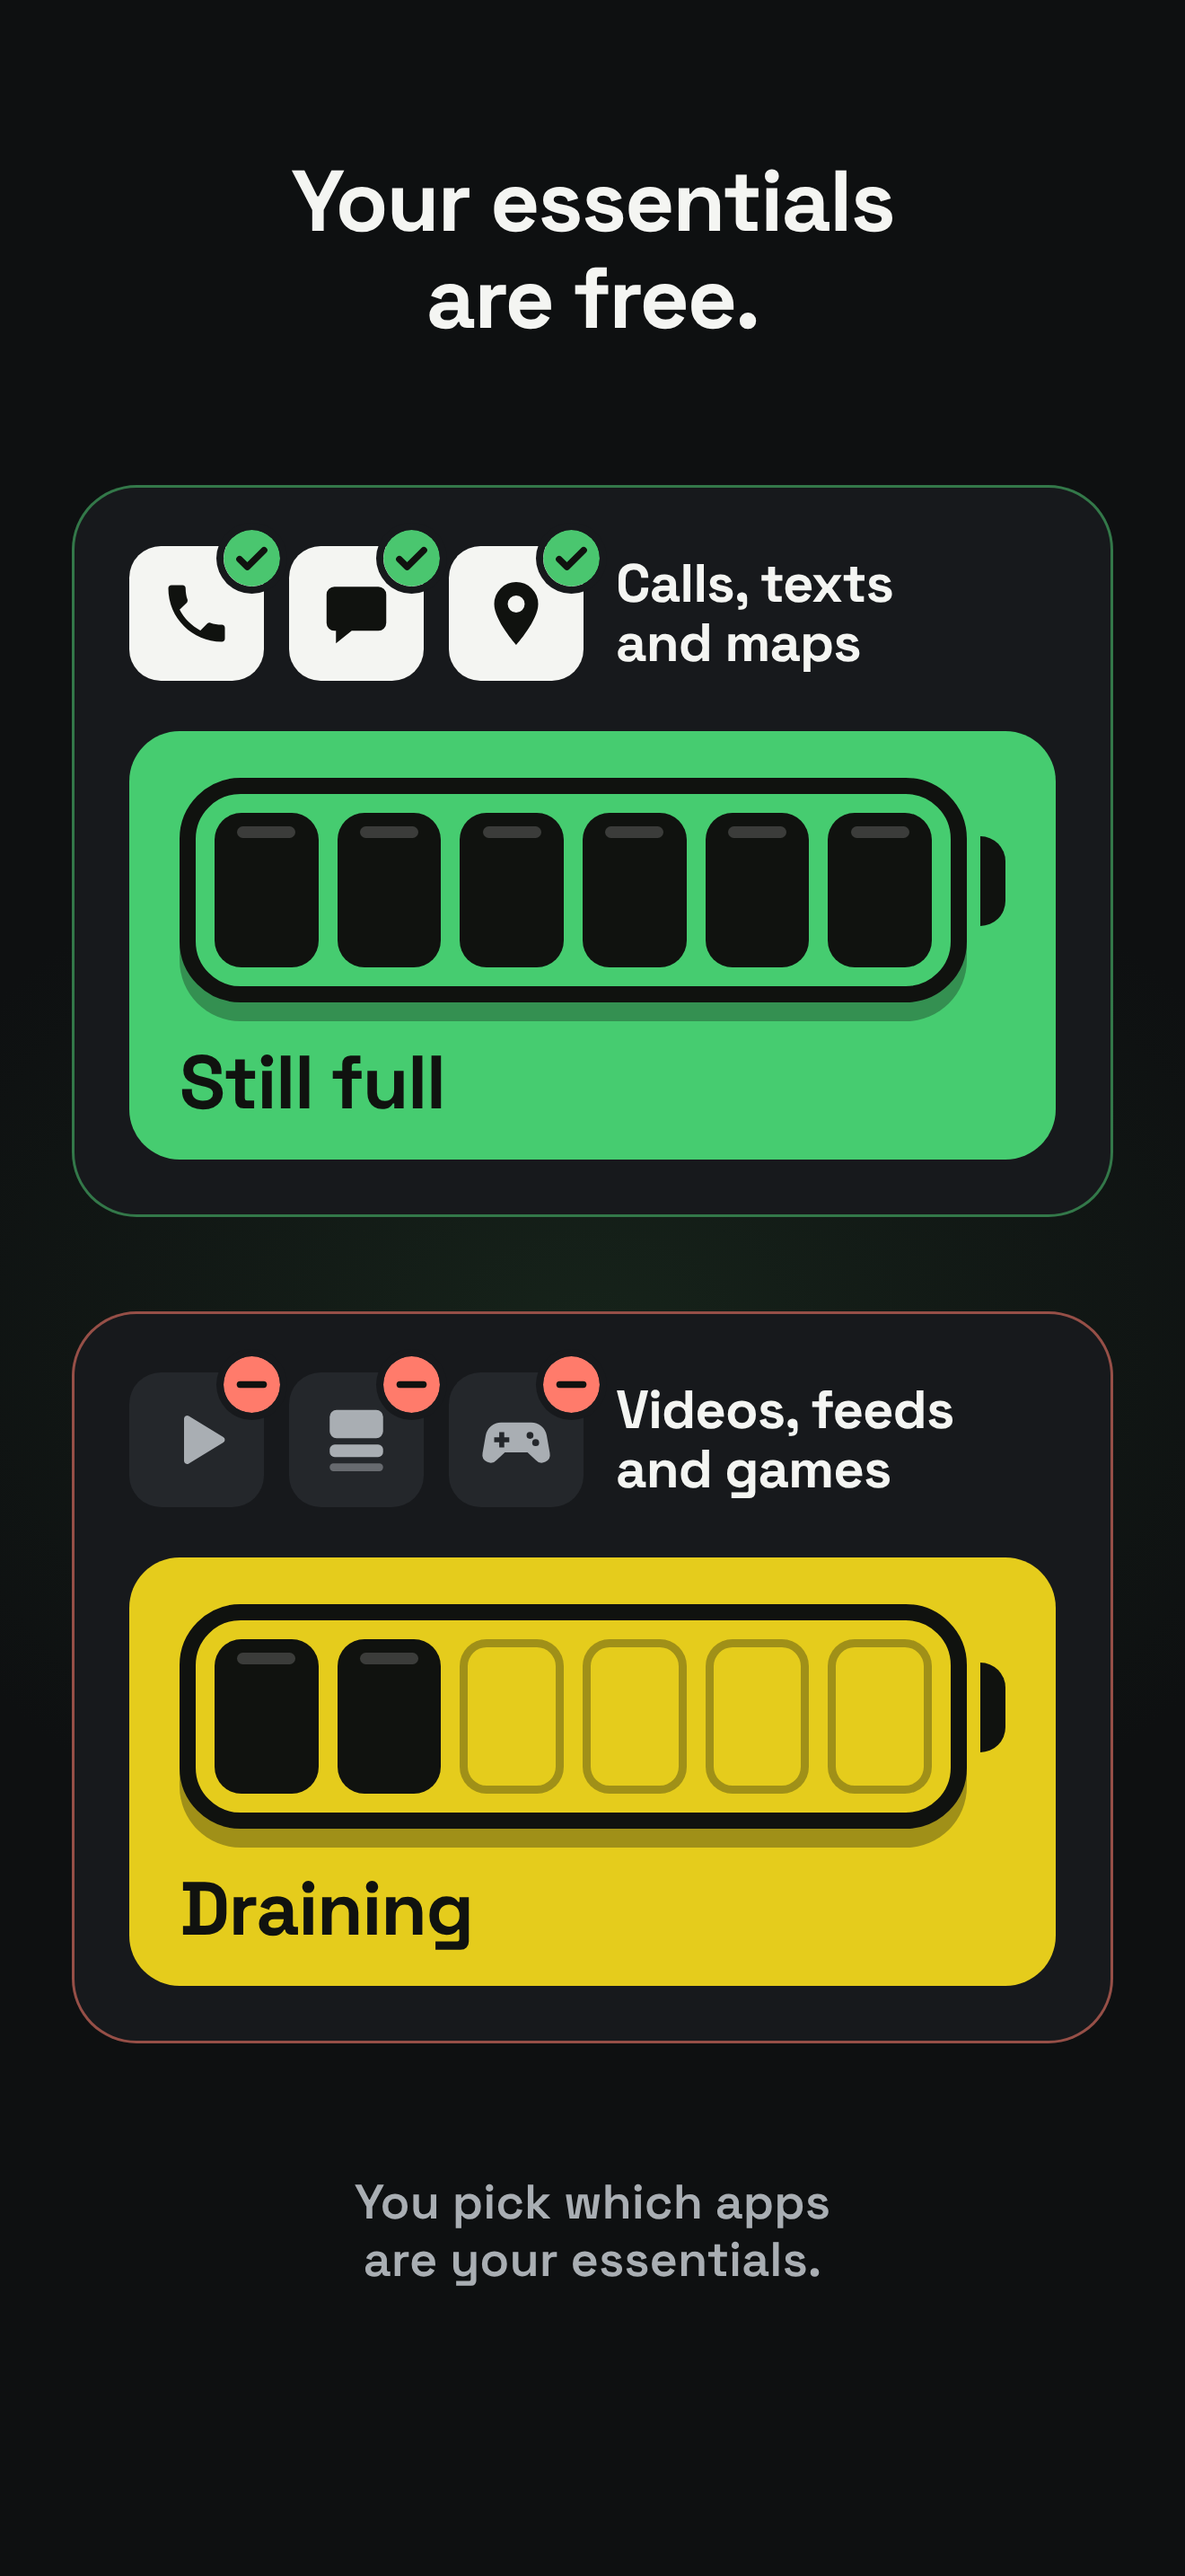
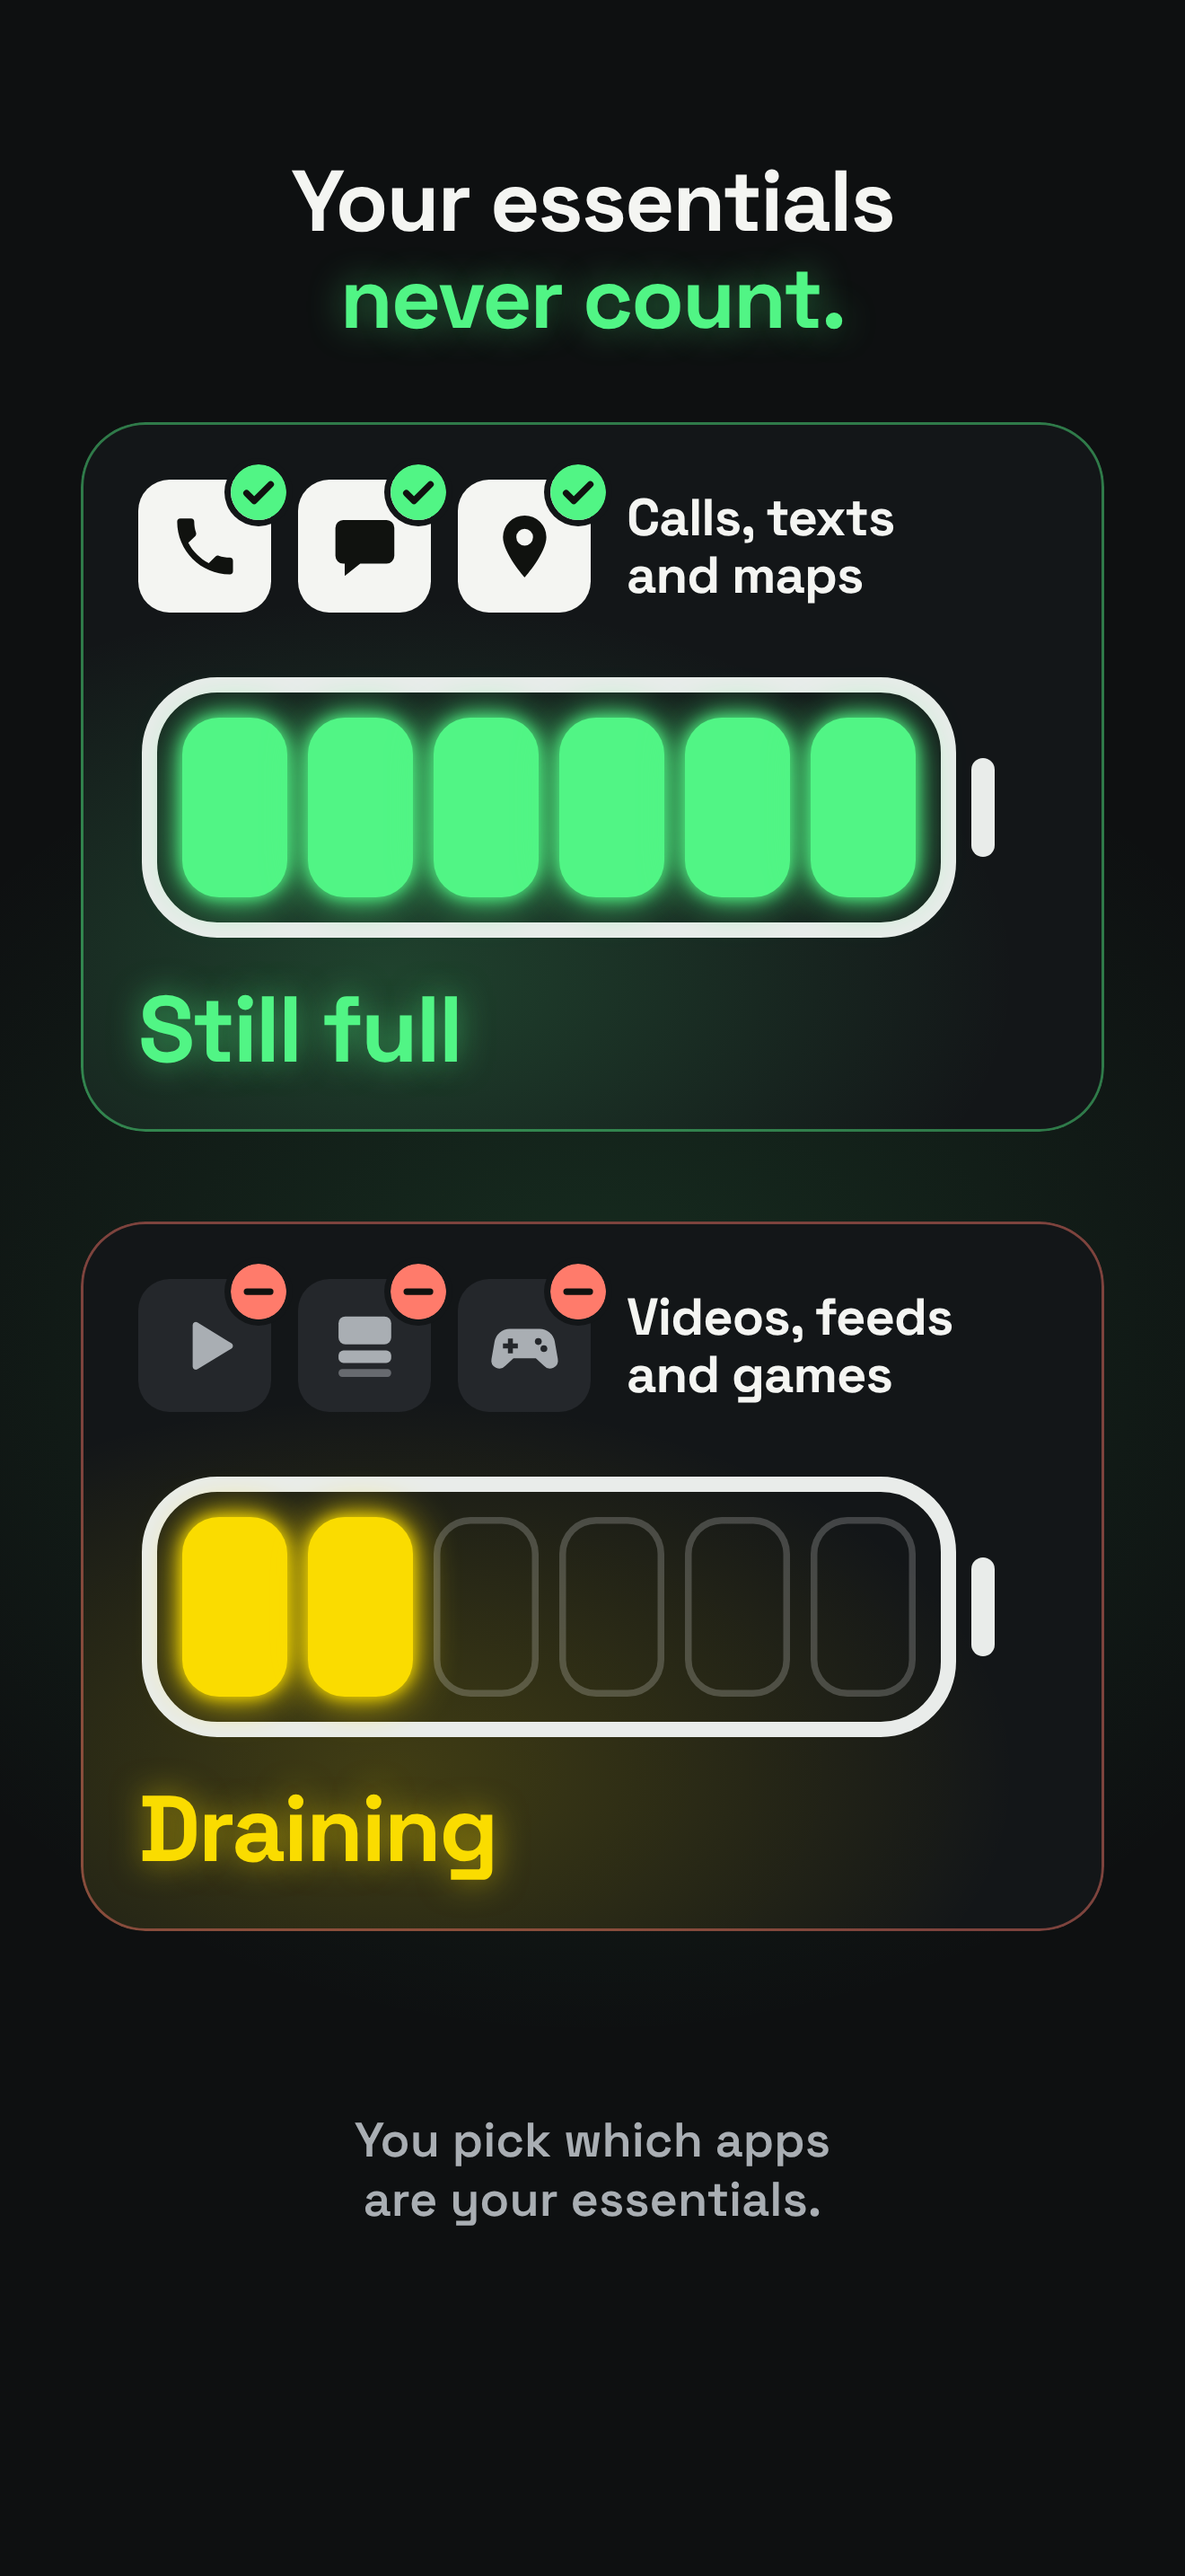
plainlimit 1.1: launch pictures and a listing tuned for search
The owner approved the seven Glow pictures as drafted. The subtitle
carries search words now ("App Blocker for Phone Addicts"); the first
picture keeps "Your essentials never count". Keywords swap low-search
words for detox, dopamine, digital, distraction, self and addiction. The
promotional text and description lead with the owner's story, the
essentials and the unlock ladder. The App Review picture of the Pro
screen is the new swipe-card page.

Claude-Session: https://claude.ai/code/session_01P4SSbJsSXGyBpRajXRdBM5

diff --git a/apps/plainlimit/NOTES.md b/apps/plainlimit/NOTES.md
@@ -351,6 +351,7 @@ From the store screenshots' second review (verdict "almost") and the owner's pho
 - **Store screenshots** (for 1.0.1's listing; 1.0.0's are already with Apple): the web build's tab bar is a floating capsule with an icon over a small label for each tab, like the iPhone's, and the page runs on under it as it does on the phone (so nothing is cut at a hard edge); the empty-battery shot is in "Work for it" and shows "Solve 3 sums for 15 more minutes"; the order is battery, empty, sums, settings, so the button pays off in the next picture; the green dash over each caption is gone. Also: the goal pill reads "3 h 30 min day" in normal case, a little more room under the headline, the countdown easier to read on the empty red, and the sums screen says "Adds 15 minutes now; your battery still refills at 6:00 AM." Two design reviews (both "almost") were applied; what they raised and was left is listed below.
 - Left for later, from the reviews: Settings as one grouped list with a time picker instead of − and +; one way of writing durations everywhere; the green card running up behind the clock; curly apostrophes; "14 ticked" wording; the sums screen's "Never mind" as a button and the number pad in its screenshot; one red for the empty screen; showing a locked app in the empty screenshot; a mark on the week for a day with earned time; the battery's offset shadow. Not taken: green cells on a dark card (the solid dark cells on the day's colour are the app's look, and read the way the phone's own battery icon does in light mode).
 - **The essentials picture leads (1.1's listing, 2026-11-19).** The owner asked for one picture that shows at a glance that essentials never count, picked it from three mock-ups (cards over Today, two batteries, a tick list), and chose the two batteries: calls, texts and maps beside a full green battery ("Still full"), videos, feeds and games beside a yellow one with two cells left ("Draining"), under "Your essentials are free." and over "You pick which apps are your essentials." It is drawn, not photographed (`e2e/store-essentials.cjs`): the app's battery drawing at its own colours, plain glyphs instead of other companies' icons. The words say what Plainlimit does and never compare it with other apps: iPhone Screen Time has an Always Allowed list and most blockers make you pick the apps to limit, so "other apps count everything" is not true (only Screen Time's daily total counts every app). The order is now essentials, Today ("One battery a day for everything else.", since Today's old line now belongs to the first picture), empty, sums, settings; the files are `01-essentials` to `05-settings`, and the listing tool sends every numbered file in name order.
+- **The launch pictures and listing (1.1, 2026-11-24).** The owner called 1.1 ready to launch and asked for screenshots and a listing tuned for downloads, with two marketing points: it is made by someone with a phone addiction, for others with the same problem, and each unlock gets shorter and harder. Seven pictures, all in the Glow look of Today (dark ground lit in the colour each picture is about), approved as drafted: 1 "Your essentials never count." (the two batteries, now glowing), 2 "One battery a day for everything else." (Today), 3 "Each unlock gets shorter and harder." (drawn: 3 sums for 15 min, 5 for 10, 7 for 5, over the top of the sums screen), 4 "When it runs out, the scroll locks." (empty Today), 5 "A second thought before you scroll." (the Second thought screen, drawn because only an iPhone shows it, with a PRO mark as guideline 2.3.2 asks), 6 "Your battery on your Home Screen." (the medium and small widgets, drawn), 7 "Made by a phone addict, for phone addicts." (History's streak) under "No account. No ads. No subscription." The Settings picture ("Recharges at 6 AM, not midnight") went: Settings no longer shows the recharge time. `e2e/store-drawn.cjs` draws 1, 3, 5 and 6 (it replaces `store-essentials.cjs`); `e2e/store-shots.cjs` photographs the rest and sets them all. The subtitle is now "App Blocker for Phone Addicts" (search words; picture 1 carries "Your essentials never count"), the keywords trade low-search words (minimal, widget, usage, reduce, lock) for detox, dopamine, digital, distraction, self (control) and addiction, and the description leads with the owner's story, essentials and the unlock ladder.
 
 ## Positioning from 1.0.1 (the owner, 2026-11-17)
 
